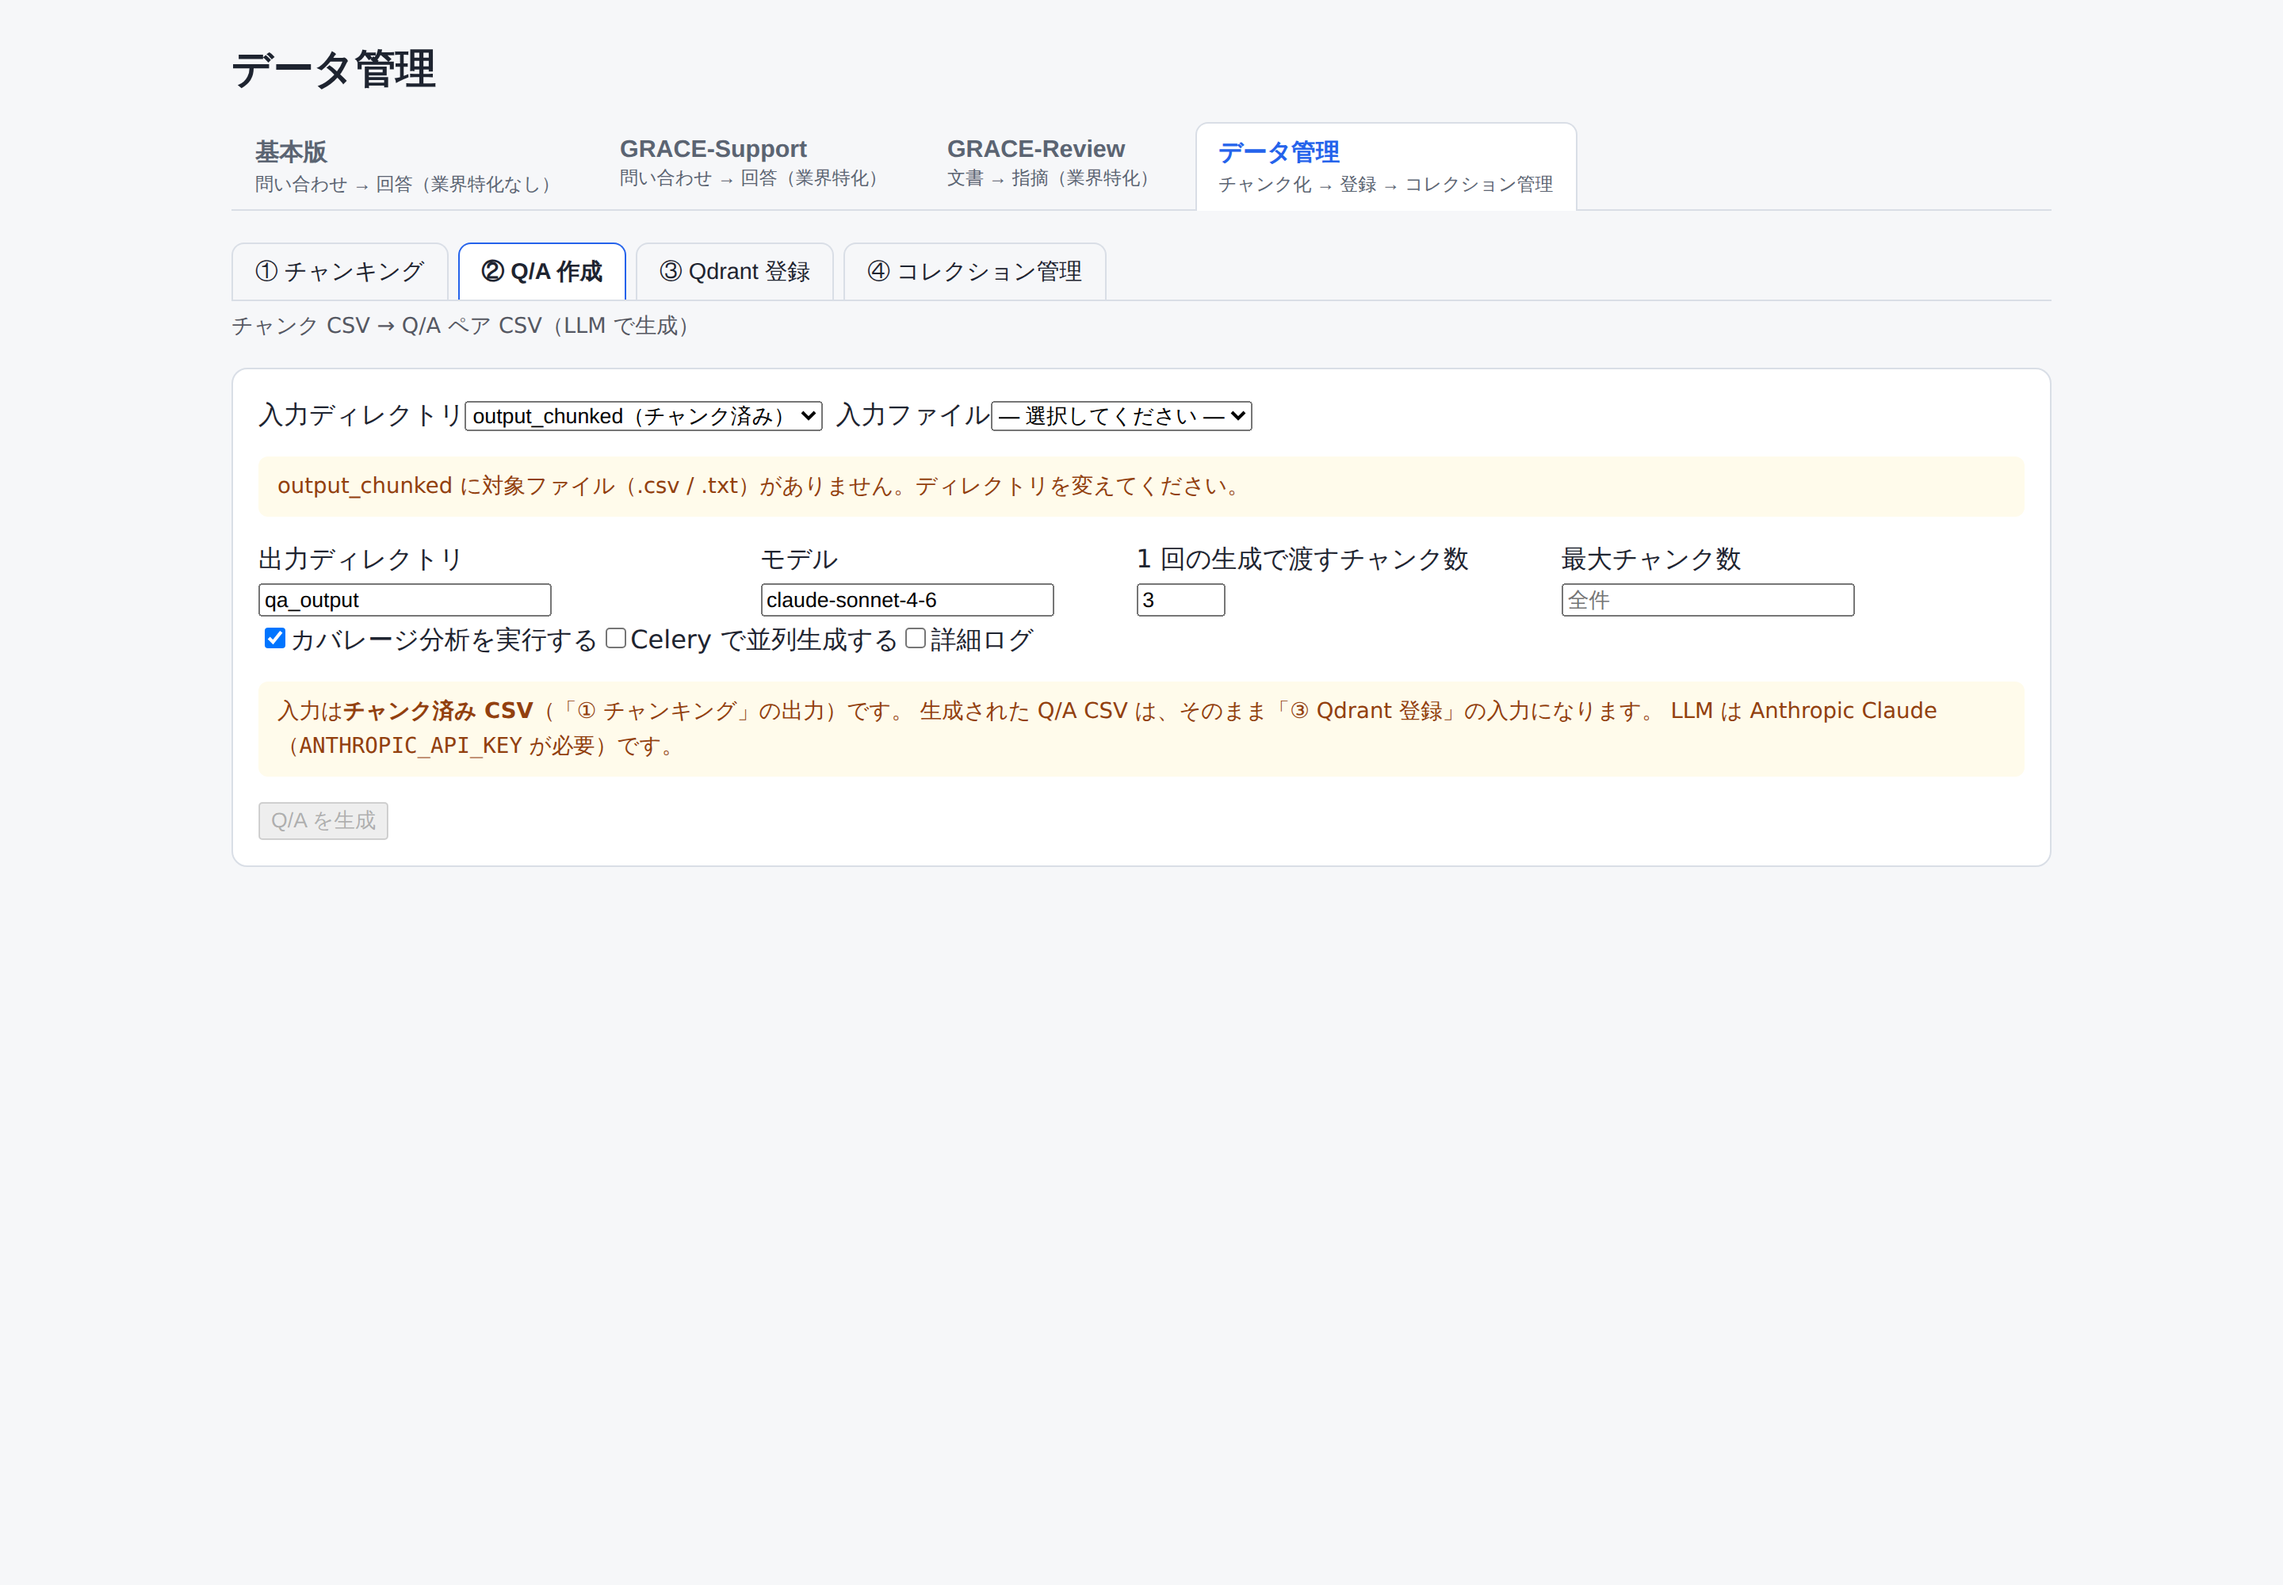
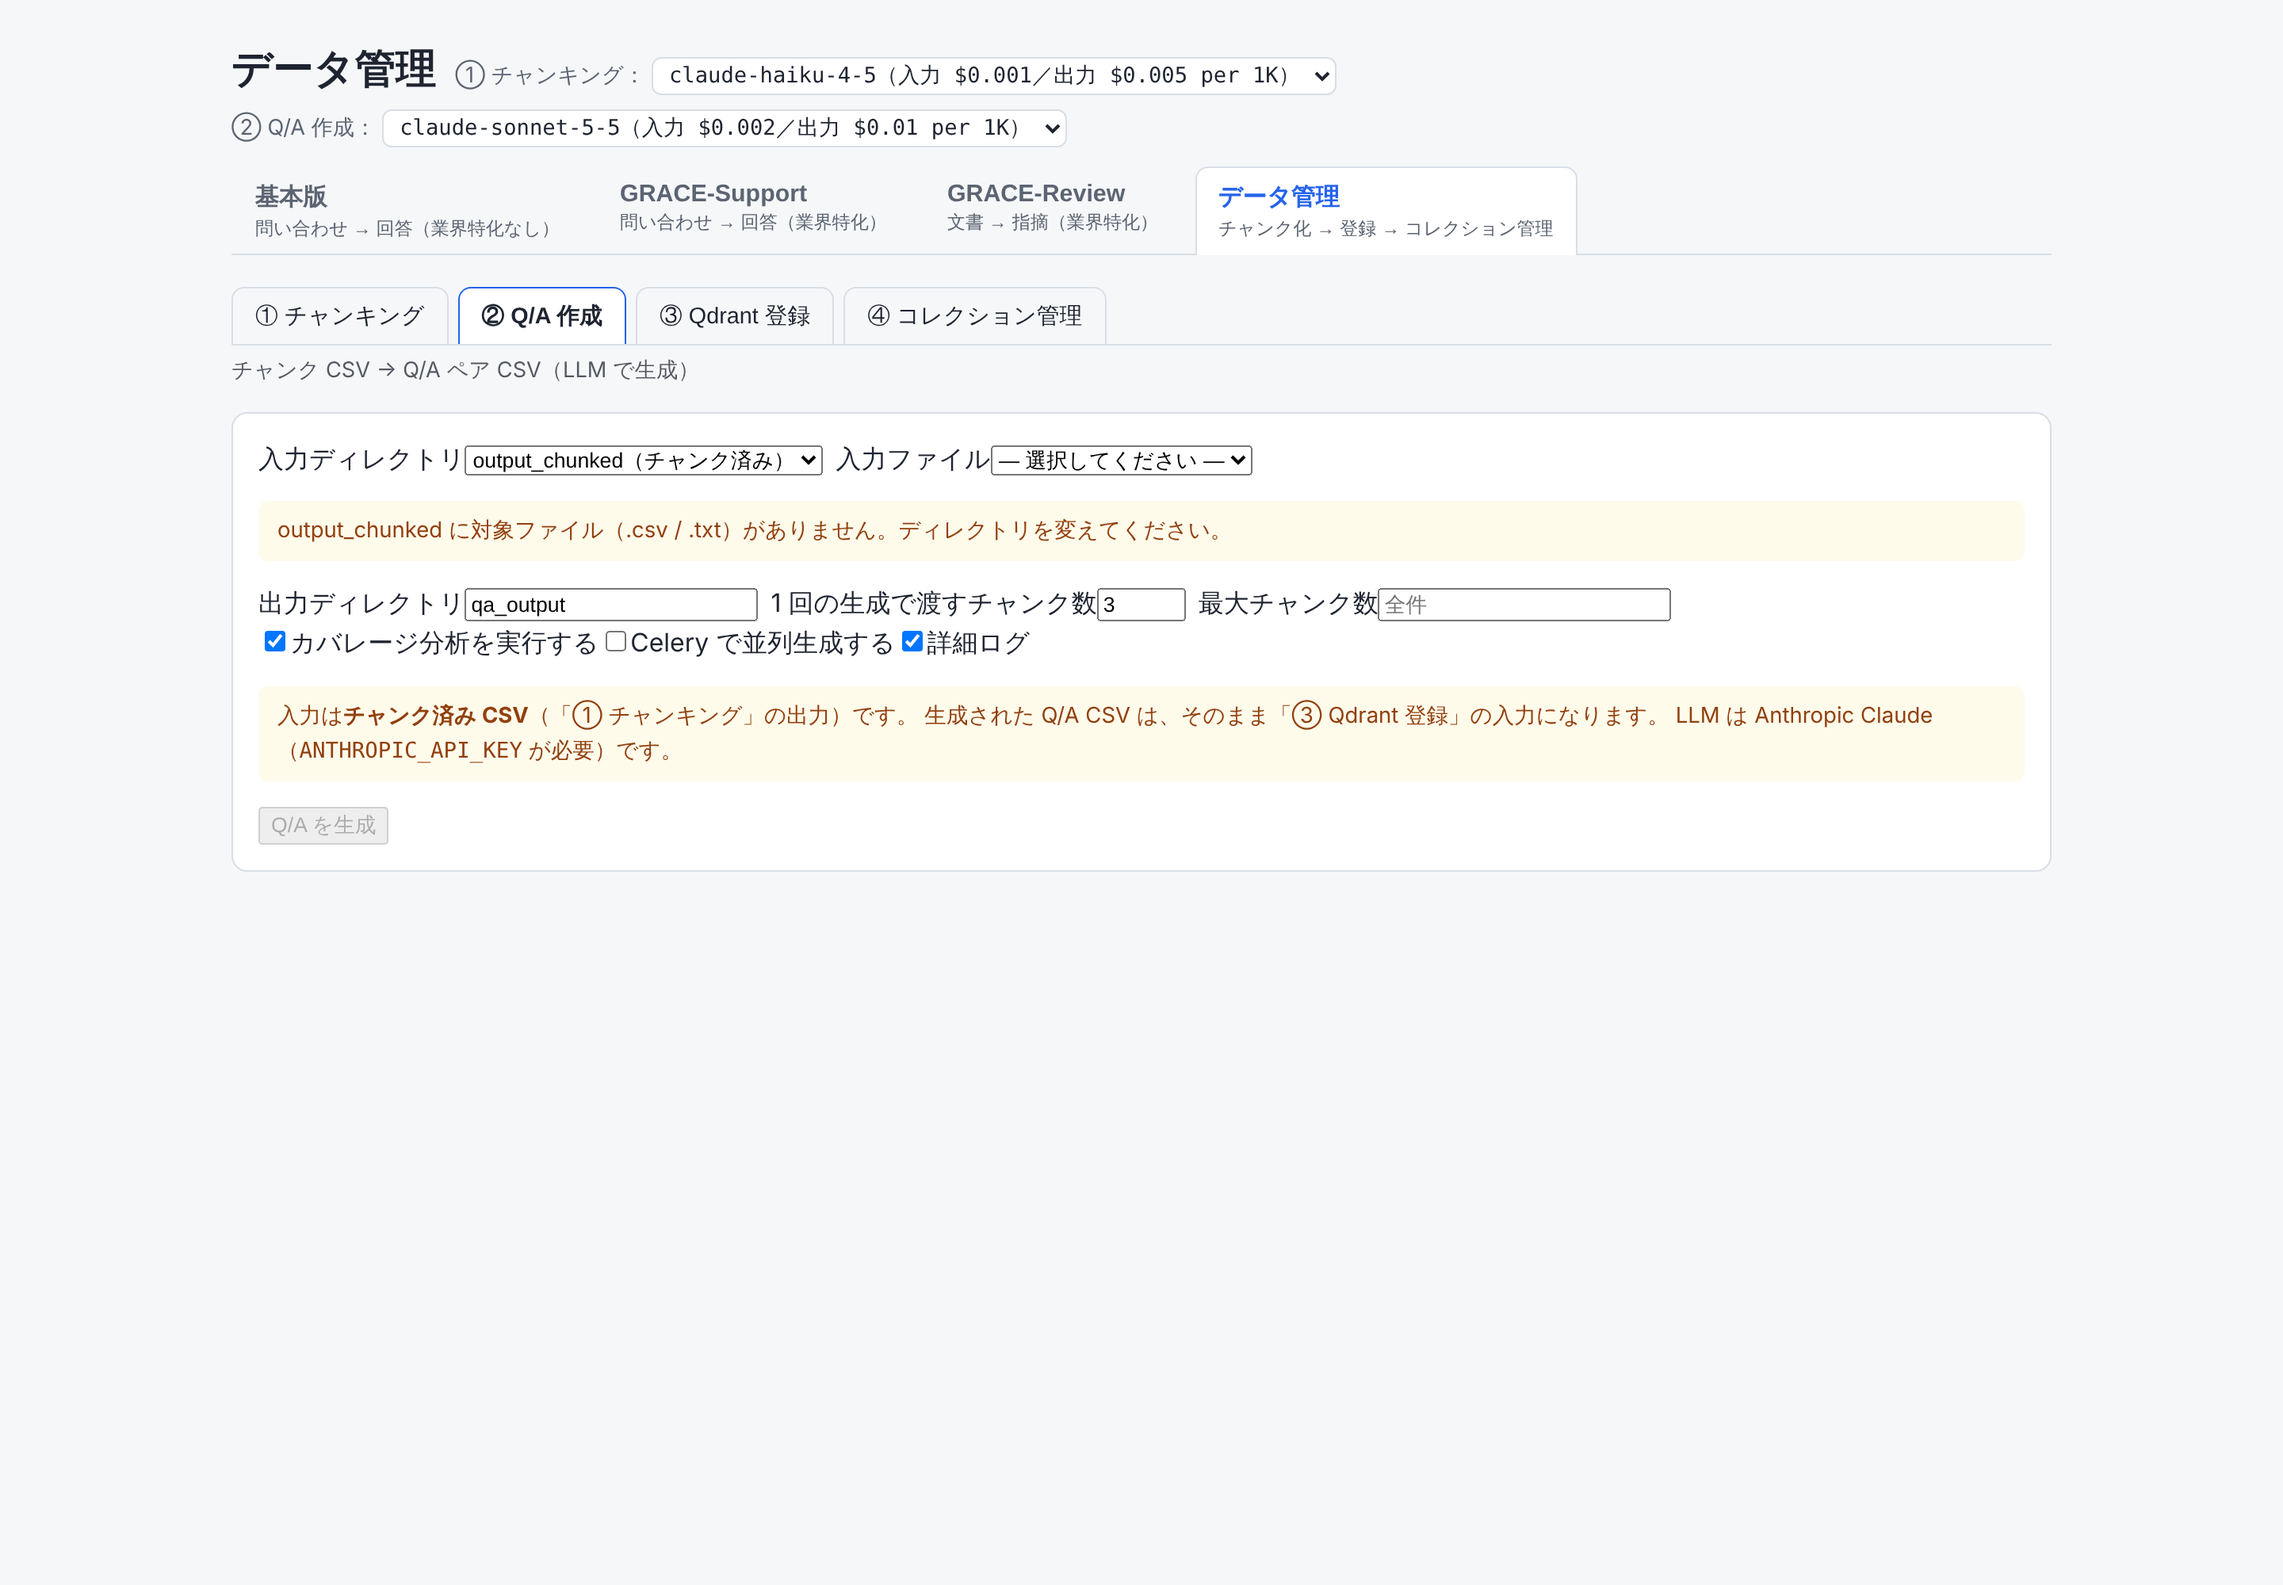
docs: README の D-09（Q/A 作成フォーム）の画像を現在の UI で撮り直す
旧画像はフォーム内に「モデル」入力欄がある旧 UI（2026-09-23 にモデル選択を
ヘッダーへ移す前）のものだった。backend と Vite を起動し、データ管理タブ →
② Q/A 作成を 1440×1000・2 倍密度で撮り直した。撮影環境に output_chunked/ が
無いため入力ファイルは未選択のまま撮っている（代用のファイルは置いていない）。
README の注記を撮り直しの記録に置き換えた。

Claude-Session: https://claude.ai/code/session_017QRsVGvnd5PudvssHH56jy

diff --git a/README.md b/README.md
@@ -1,6 +1,6 @@
 # GRACE アプリ（`./run_dev.sh`）- 画面・操作・プログラム対応 ドキュメント
 
-**Version 3.8** | 最終更新: 2026-10-06
+**Version 3.9** | 最終更新: 2026-10-06
 
 ![B-01 起動直後（基本版）](docs/images/b-01-basic-initial.png)
 
@@ -1164,9 +1164,10 @@ sequenceDiagram
 > （2026-09-23 から。`state/headerModel.ts`）。未選択のときはサーバーの既定モデル名
 > （`QaGenerationRequest.model`＝`claude-sonnet-5-5`）がそのまま表示されるので、ヘッダーも画角に入れる。
 >
-> ⚠ **掲載中の画像は旧 UI**（2026-09-12 の撮影。`docs/doc_modernization_todo.md` ④）で、フォーム内に
-> 「モデル」入力欄があり、旧々既定の `claude-sonnet-4-6` が入っている。現在の画面にこの欄は無い。
-> 撮り直すまでは本文の説明を正とする。
+> 📝 **2026-10-06 に撮り直した**（それまでの画像はフォーム内に「モデル」入力欄がある旧 UI だった）。
+> ヘッダーの「② Q/A 作成：」に既定モデルが表示され、フォームにモデル欄が無いことが読み取れる。
+> 撮影環境には `output_chunked/` が無いため、入力ファイルは未選択で
+> 「対象ファイルがありません」の案内が出ている（**それらしいファイルを置いて代用していない**）。
 
 ![D-09 Q/A 作成 フォーム](docs/images/d-09-qa-form.png)
 
@@ -1423,7 +1424,7 @@ docker compose -f docker-compose/docker-compose.yml up -d
 | **D-01** | ✅ | `d-01-data-initial.png` | **データ管理**タブ初期表示（タブ 4 つ＋サブタブ 4 つ） | §4.5.1 |
 | **D-02** | ✅ | `d-02-chunking-form.png` | チャンキング フォーム（モデル既定値が見えること） | §4.5.2 |
 | **D-03** | ✅ | `d-03-chunking-running.png` | チャンキング 実行中のタイムライン（ログを 1 つ開く） | §4.5.2 |
-| **D-09** | ✅ | `d-09-qa-form.png` | **② Q/A 作成** フォーム（モデル既定値・Celery 並列トグル） | §4.5.3 |
+| **D-09** | ✅ | `d-09-qa-form.png` | **② Q/A 作成** フォーム（ヘッダーの「② Q/A 作成：」モデル・Celery 並列トグル。2026-10-06 撮り直し） | §4.5.3 |
 | **E-03** | ✅ | `e-03-review-over-limit.png` | Review の**文字数上限超過**（赤いカウンタ・送信ボタン無効） | §8 |
 | **D-04** | ✅ | `d-04-register-form.png` | Qdrant 登録 フォーム（コレクション名の自動補完） | §4.5.4 |
 | **D-05** | ✅ | `d-05-register-confirm.png` | 登録の CONFIRM（`recreate=ON` のときだけ出る） | §4.5.4 |
@@ -1586,6 +1587,7 @@ from backend.app.core.jobs import job_manager, JobParams
 | 3.6 | **基本版 / GRACE-Support の dry-run の既定値を実装に合わせて訂正した**（2026-09-26）。概要の主要機能一覧・§4.2.1 の UI 要素表・§6.2 の手順 8 が「既定 ON」のままだったが、実装（`formMemory.ts::DEFAULT_QUERY_FORM` の `dryRun: false`、フォームのラベル「既定 OFF」）は **OFF**。とくに手順 8 はそのまま進めると本人確認が通らず CONFIRM が出ないため、「ON にする」手順へ改め理由を添えた。§4.1 の formMemory の説明（「外した dry-run が ON へ復帰する」）も既定値に依存しない言い方へ直した（Review 側は v3.5 で訂正済み） |
 | 3.7 | 「grace_v2 で実装した機構」の表に、入口の `docs/app_tabs_overview.md`（処理 3 タブの概要）と、`grace/docs/README.md`「概要」（Support / Review が使う grace モジュールの対応表と比較）へのリンクを追加（2026-10-06）。「実行メモリ」行の「3 文書とも未記載」を、上記の対応表と `grace/docs/memory.md` へのリンクに置き換えた |
 | 3.8 | §4.5.3 の [D-09] の説明を現在の UI に合わせた（2026-10-06）。モデルのセレクタはフォーム内ではなくヘッダーの「② Q/A 作成：」にあり（2026-09-23 から）、未選択時はサーバーの既定モデル名がそのまま出る。「（既定値: …）」の表記と、そこに書かれていた旧既定モデル名は現在の画面に無い。掲載中の画像はフォーム内に「モデル」入力欄（`claude-sonnet-4-6`）がある旧 UI のものであることを注記した |
+| 3.9 | [D-09]（② Q/A 作成フォーム）の画像を現在の UI で撮り直した（2026-10-06）。backend（:8000）と Vite（:5173）を起動し、データ管理タブ → ② Q/A 作成を 1440×1000・2 倍密度で撮影。旧画像はフォーム内に「モデル」入力欄がある旧 UI だった。撮影環境に `output_chunked/` が無いため入力ファイルは未選択のまま撮っている。v3.8 で入れた「旧 UI である」旨の注記を、撮り直しの記録に置き換えた |
 
 ---
 
